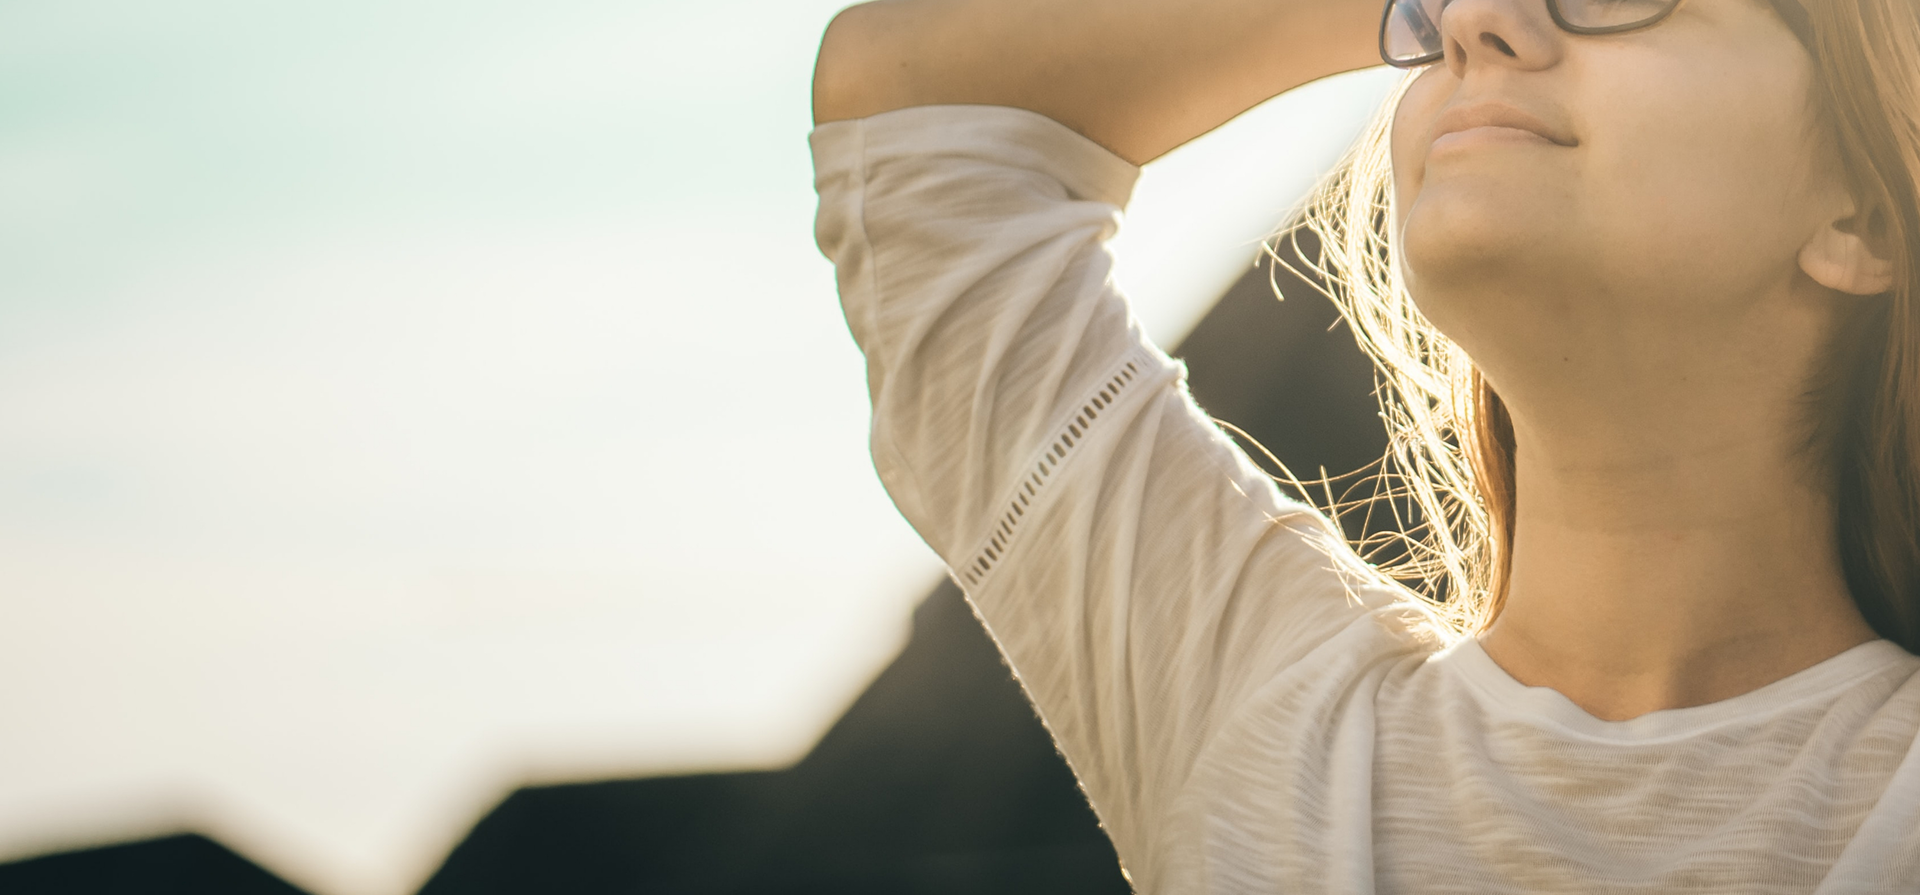
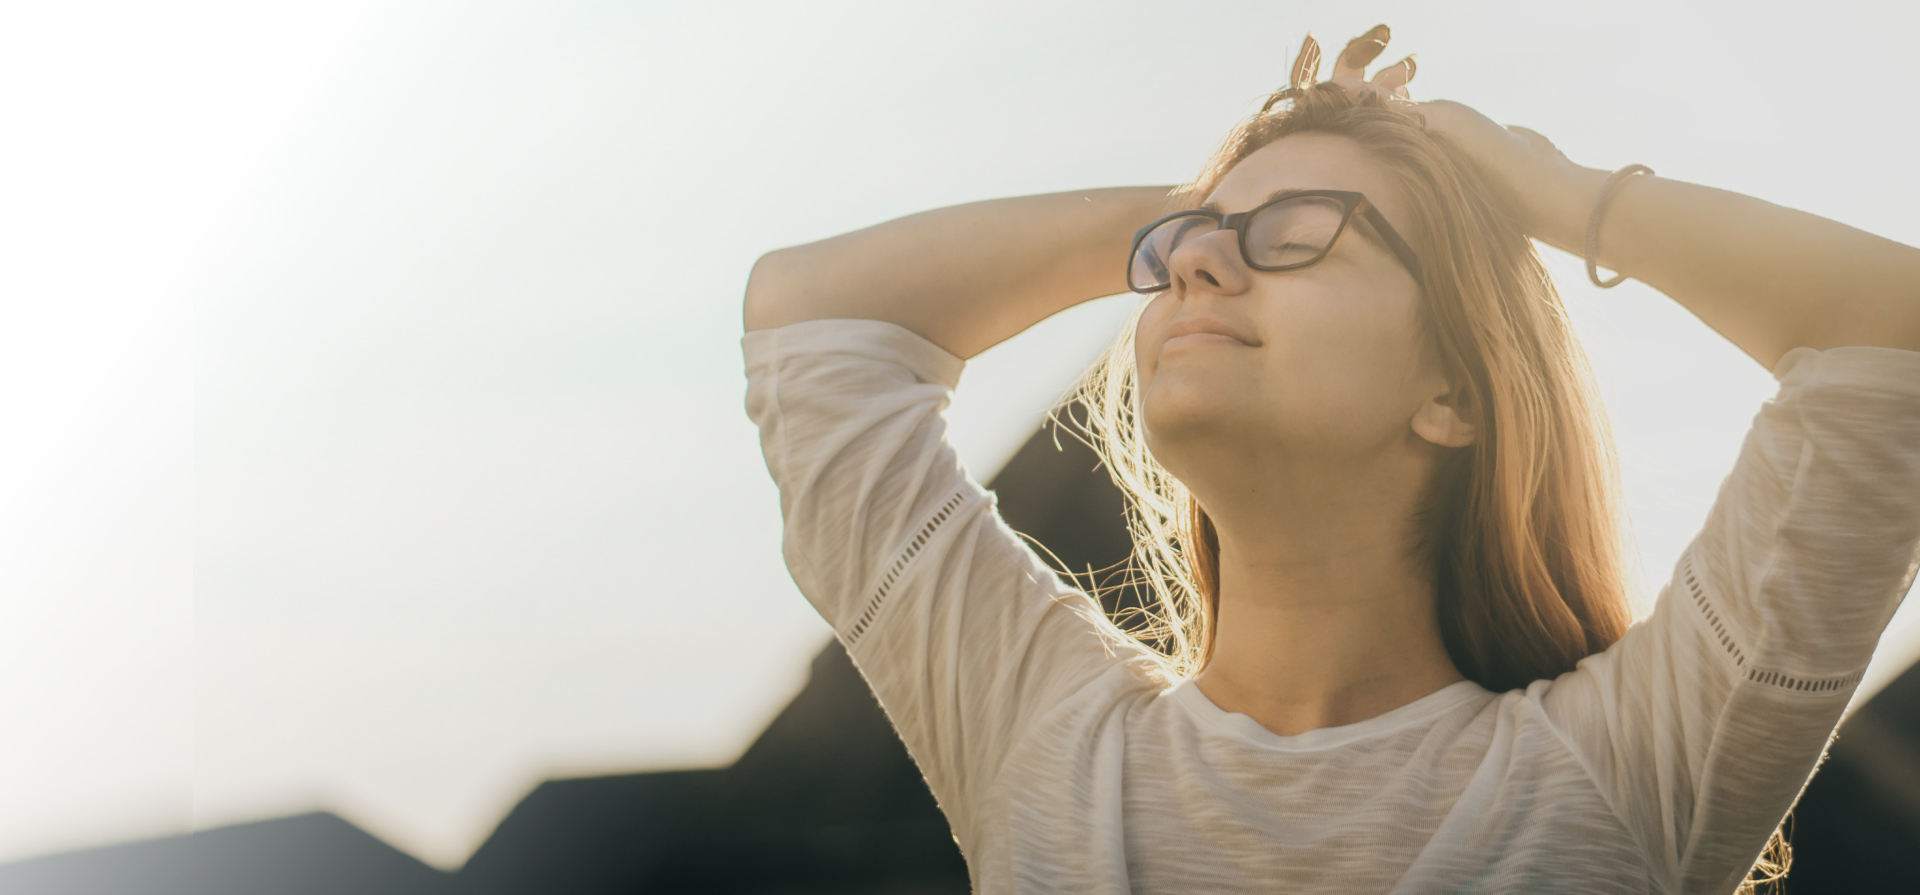
style: add video style

diff --git a/styles/main.css b/styles/main.css
@@ -13,10 +13,9 @@ body{
     max-width: 1370px;
     width: 100%;
     margin: 0 auto;
-    padding: 0 15px;
+    padding: 0;
 }
 h2 {
-    color: #01996D;
     font-family: Georgia;
     font-size: 50px;
     font-weight: 700;
@@ -34,13 +33,19 @@ p, h1, h2, h3 {
     font-weight: 600;
     line-height: 157%;
 }
+.text {
+    font-size: 20px;
+    max-width: 420px;
+    margin-bottom: 48px;
+    line-height: 157%;
+}
 /* Header */
 .header {
     min-height: 895px;
+    height: 100%;
     background-image: url(../assets/header-bg.png);
-    background-position: center;
     background-repeat: no-repeat;
-    background-size: cover;
+    background-size: contain;
 }
 .header h1 {
     color: #01996D;
@@ -48,41 +53,46 @@ p, h1, h2, h3 {
     font-size: 65px;
     font-weight: 700;
     max-width: 440px;
-    margin-top: 0;
-    padding-top: 170px;
+    padding-top: 172px;
+    padding-bottom: 29px;
 }
-.header p {
-    font-size: 20px;
-    max-width: 420px;
+.header__description {
     color: #484848;
-    margin-bottom: 18px;
 }
-.header button {
-    padding: 20px 50px;
+.header__button {
+    padding: 21px 48px;
 }
 .menu {
     display: flex;
-    justify-content: space-between;
     align-items: center;
-    padding-top: 30px;
-    padding-bottom: 30px;
+    padding-top: 14px;
+    padding-bottom: 15px;
     border-bottom: 1px solid #D6D6D6;
+    color: #292929;
 }
 .menu__container {
     display: flex;
     align-items: center;
-    justify-content: space-between;
 }
 .menu__logo {
     cursor: pointer;
+    margin-right: 170px;
 }
 .menu__logo:hover {
     outline: 2px solid #01996D;
     outline-offset: 8px;
 }
+.menu__list {
+    padding: 0;
+}
+.menu__list:last-child {
+    padding-right: 0;
+}
 .menu__list li{
     display: inline-block;
     margin-right: 72px;
+    font-size: 20px;
+    font-weight: 500;
 }
 .menu__list li:hover{
     color: #01996D;
@@ -92,8 +102,9 @@ p, h1, h2, h3 {
     margin-right: 0;
 }
 .menu__buttons {
+    margin-left: 264px;
     display: flex;
-    gap: 35px;
+    gap: 25px;
 }
 .btn {
     border-radius: 4px;
@@ -110,6 +121,7 @@ p, h1, h2, h3 {
     font-size: 20px;
     font-weight: 400;
     background-color: #fff;
+    padding-left: 10px;
 }
 .menu__buttons-secondary:hover {
     color: #01996D;
@@ -124,6 +136,7 @@ p, h1, h2, h3 {
 /* Advantages */
 .advantages {
     padding-top: 169px;
+    padding-bottom: 48px;
 }
 .advantages__text {
     display: flex;
@@ -137,48 +150,166 @@ p, h1, h2, h3 {
     flex-direction: column;
     max-width: 586px;
     width: 100%;
-    margin-right: 136px;
 }
+
 .advantages__title {
+    color: #01996D;
     max-width: 584px;
     width: 100%;
 }
-
-.advantages__description {
+.advantages__text {
+    color: #424242;
     font-size: 20px;
     font-weight: 500;
     line-height: 150%;
+}
+.advantages__description {
     max-width: 671px;
     width: 100%;
-    padding-right: 80px;
+    padding-left: 22px;
+    padding-top: 40px;
 }
 .advantages__steps {
+    padding-top: 46px;
+    display: flex;
+    justify-content: space-between;
+    max-width: 1368px;
 }
 .advantages__item {
+    position: relative;
 }
+
 .num {
+    color: rgba(1, 153, 109, 0.20);
+    font-family: Georgia;
+    font-size: 150px;
+    font-weight: 400;
+    line-height: 150%;
+    position: relative;
 }
 .advantages__item-title {
+    color: #000;
+    text-align: center;
+    font-family: Georgia;
+    font-size: 30px;
+    font-weight: 700;
+    line-height: 150%;
+    position: absolute; 
+    top: 136px;
+    left: 89px;
 }
 .advantages__item-description {
+    color: #424242;
+    font-size: 20px;
+    font-weight: 500;
+    line-height: 150%;
+    width: 100%;
+    max-width: 382px;
+    padding-bottom: 60px;
+    padding-top: 12px;
 }
-.advantages__img {
+.advantages__item:nth-child(2) {
+    margin-top: 287px;
+}
+.advantages__item:nth-child(2) .num {
+    left: 17px;
+}
+.advantages__item:nth-child(2) .advantages__item-title {
+    top: 137px;         
+    left: 96px;
+    max-width: 313px;
+    width: 100%;
+}
+.advantages__item:nth-child(2) .advantages__item-description {
+    padding-bottom: 36px;
+    max-width: 412px;
+    width: 100%;
+    padding-left: 14px;
+}
+.advantages__item:nth-child(2) .advantages__img {
+    padding-left: 16px;
+}
+.advantages__item:nth-child(3) {
+    max-width: 408px;
+    width: 100%;
+}
+.advantages__item:nth-child(3) .num {
+    padding-top: 46px;
+    left: 20px;
+    top: 10px;
+}
+.advantages__item:nth-child(3) .advantages__item-title {
+    top: 190px;         
+    left: 142px;
+}
+.advantages__item:nth-child(3) .advantages__item-description {
+    max-width: 417px;
+    width: 100%;
+    padding-left: 15px;
+    padding-bottom: 46px;
+}
+.advantages__item:nth-child(3) .advantages__img {
+    padding-left: 16px;
 }
 .promo {
+    background-color: #245852;
+    height: 922px;
+    padding: 48px 207px;
+}
+.promo_wrapper {
+    display: flex;
 }
 .promo__block {
+    display: flex;
+    align-items: flex-start;
+    flex-direction: column;
+    padding-top: 264px;
+    margin-right: 31px;
 }
 .promo__title {
+    color: #FFF;
+    max-width: 580px;
+    width: 100%;
+    padding-bottom: 33px;
 }
 .promo__description {
-}
-.btn {
+    color: #FFF;
+    font-size: 25px;
+    font-weight: 600;
+    line-height: 157%;
+    padding-bottom: 55px;
 }
 .promo__btn {
+    display: inline-flex;
+    padding: 20px 48px;
+    flex-direction: column;
+    align-items: center;
 }
 .video__block {
+    position: relative;
+    margin-top: 180px;
+    overflow: hidden;
+    width: 896px;
+    border-radius: 16px;
+}
+video {
+    width: 100%;
+    max-height: 515px;
+    height: auto;
+    display: block;
+    object-fit: cover;
+}
+.video__play {
+    position: absolute;
+    top: 42%;
+    left: 46%;
+    width: 80px;
+    height: 80px;
+    pointer-events: none;
+    z-index: 2;
 }
 .our-products {
+
 }
 .card__container {
 }

diff --git a/index.html b/index.html
@@ -30,7 +30,7 @@
     <header class="header">
         <div class="container">
             <h1>Be aware, Manage well.</h1>
-            <p>Everyone experiences stress in different ways. Let Alivio guide you, in a personalized journal experience, to overcome your stress.</p>
+            <p class="text header__description">Everyone experiences stress in different ways. Let Alivio guide you, in a personalized journal experience, to overcome your stress.</p>
             <button class="btn header__button">Find Your Way</button>
         </div>
     </header>
@@ -67,15 +67,15 @@
             </div>
         </section>
         <section class="promo">
-            <div class="container">
+            <div class="promo_wrapper">
                 <div class="promo__block">
                     <h2 class="promo__title">Let's hear about Kayla's success story</h2>
                     <p class="promo__description">See how well Alivio works in a real customer’s life. </p>
                     <button class="btn promo__btn">Let’s get started</button>
                 </div>
                 <div class="video__block">
-                    <video controls width="896" poster="assets/poster.jpg"></video>
-                    <img src="assets/play-white.png" style="position: absolute; top: 50%; left: 50%; transform: translate(-50%, -50%); pointer-events: none;">
+                    <video src="#" poster="assets/poster.jpg"></video>
+                    <img src="assets/play-white.png" class="video__play">
                 </div>
             </div>
         </section>
